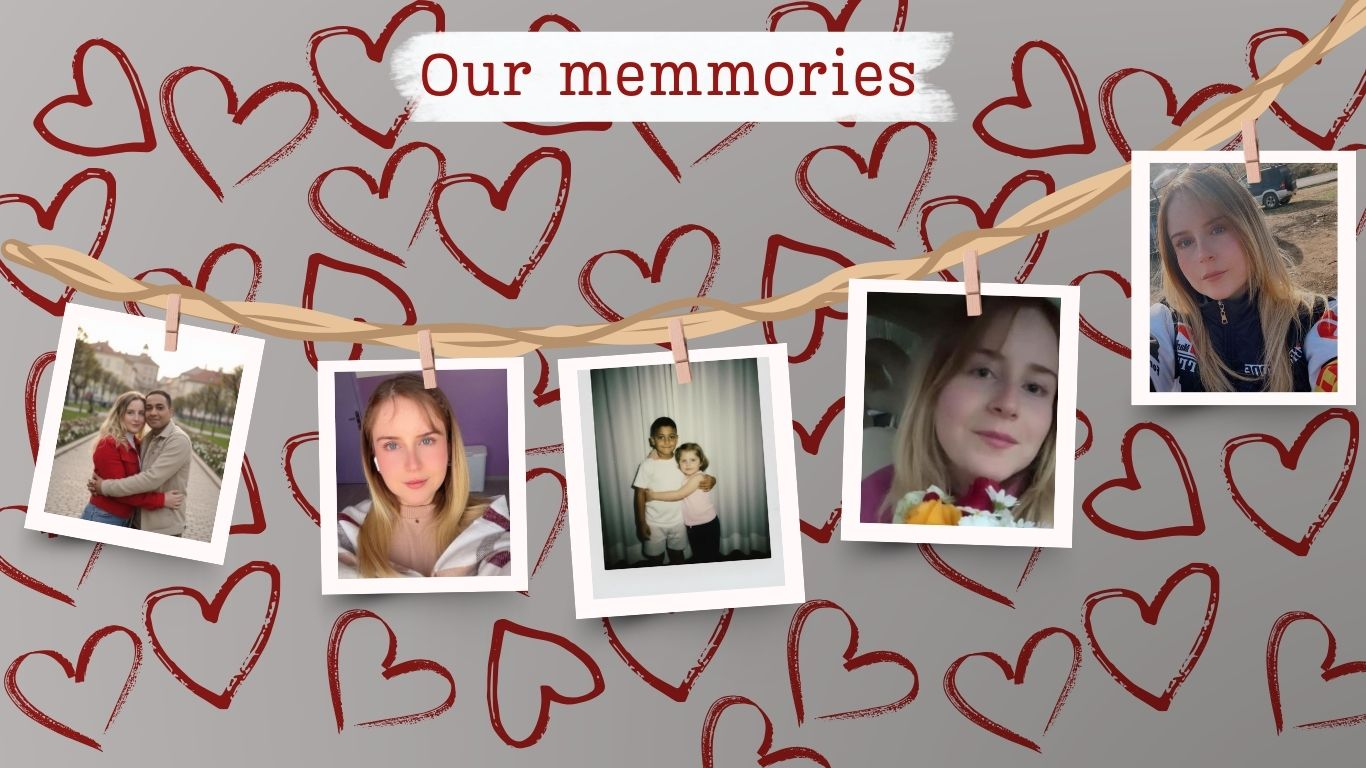
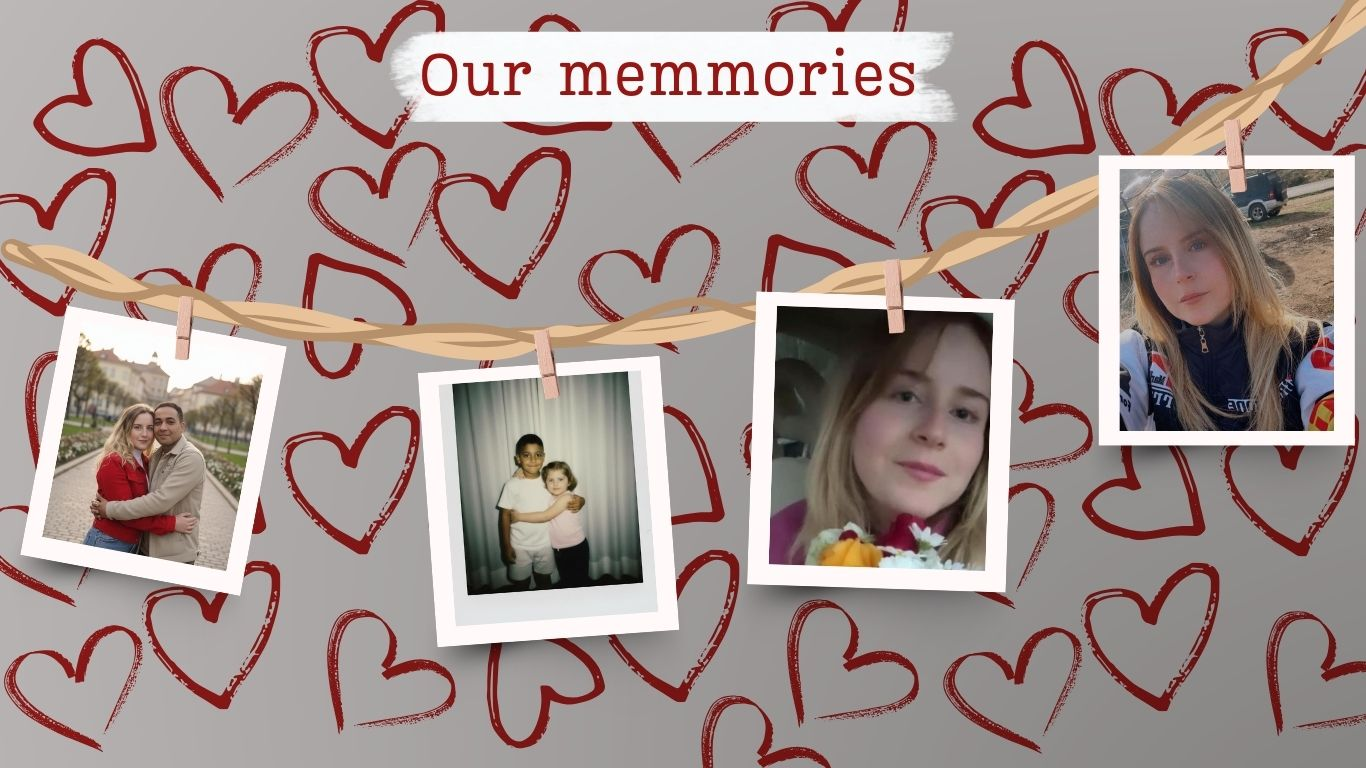
Initial commit

Changed region(s): [[0.0, 0.1562, 1.0, 0.875]]

diff --git a/app/page.tsx b/app/page.tsx
@@ -174,6 +174,8 @@ export default function Home() {
         return "/gift-desktop.jpg"
       case "/images1.jpg":
         return "/images1-desktop.jpg"
+      case "/images2.jpg":
+        return "/images2-desktop.jpg"
       case "/message.jpg":
         return "/message-desktop.jpg"
       case "/song1.jpg":
@@ -207,6 +209,7 @@ export default function Home() {
       "/lock.jpg",
       "/gift.jpg",
       "/images1.jpg",
+      "/images2.jpg",
       "/message.jpg",
       "/song1.jpg",
       "/song2.jpg",
@@ -535,6 +538,26 @@ export default function Home() {
                     alt="Images part 1"
                     className="w-full h-auto block"
                   />
+                  <img
+                    src={getResponsiveImage("/images2.jpg")}
+                    alt="Images part 2"
+                    className="w-full h-auto block"
+                  />
+                  <button
+                    type="button"
+                    onClick={() => {
+                      const container = imagesScrollRef.current
+                      if (!container) return
+                      container.scrollTo({
+                        top: container.scrollHeight,
+                        behavior: "smooth",
+                      })
+                    }}
+                    className="absolute left-1/2 bottom-17 -translate-x-1/2 px-4 py-2 rounded-full bg-white/80 text-[#9b1412] text-xs sm:text-sm font-semibold tracking-[0.25em] uppercase shadow-lg animate-bounce"
+                  >
+                    <span>SCROLL DOWN</span>
+                    <span className="text-lg leading-none">↓</span>
+                  </button>
                 </div>
               ) : selectedImage === "/song1.jpg" ? (
                 <div className="relative w-full h-full">
